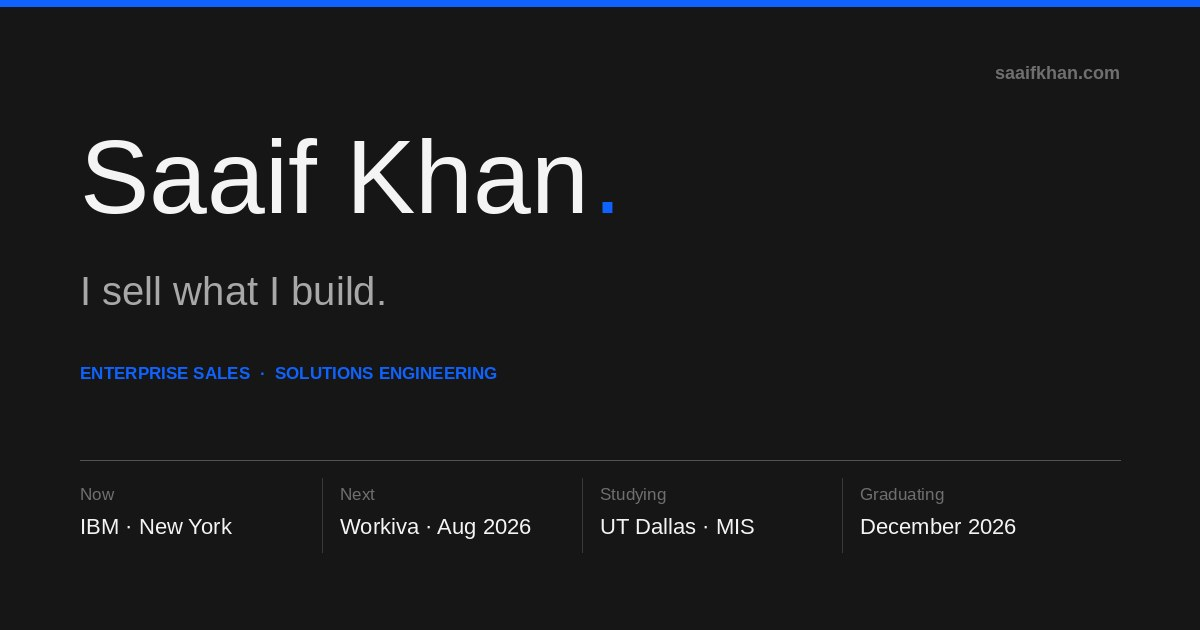
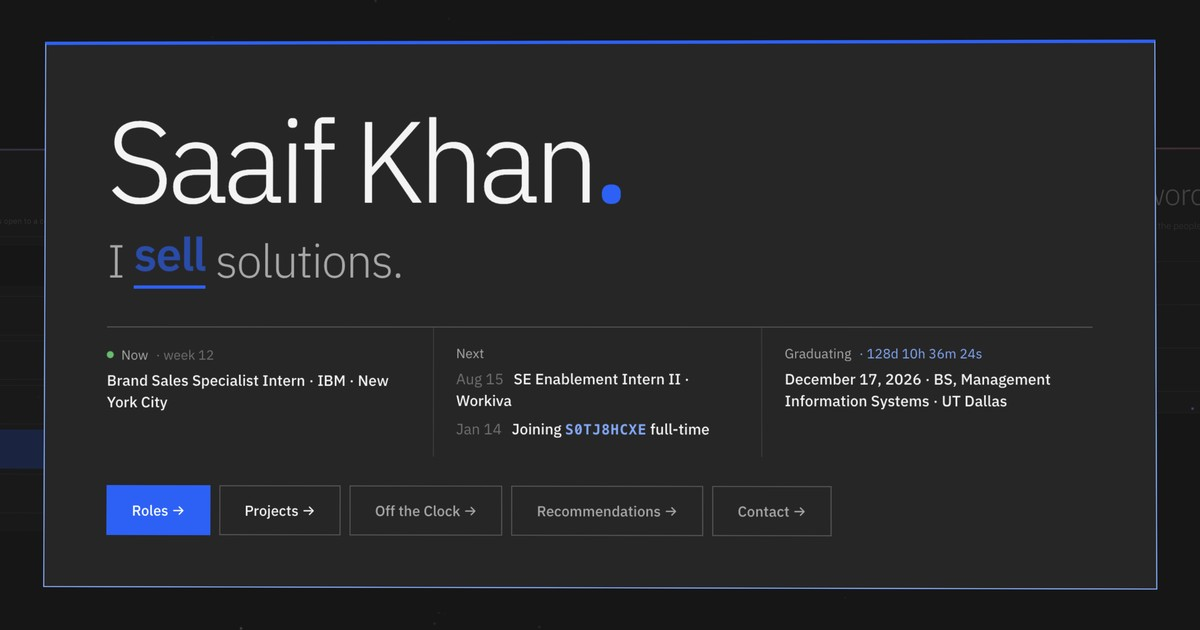
Update metadata: replace stale tagline and thumbnail with accurate, current content

diff --git a/index.html b/index.html
@@ -24,7 +24,7 @@
      chrome can clear the notch and the home indicator on iPhone -->
 <meta name="viewport" content="width=device-width, initial-scale=1.0, viewport-fit=cover">
 <title>saaif khan :p</title>
-<meta name="description" content="Saaif Khan — enterprise sales at IBM, solutions engineering at Splunk and Workiva. An interactive tour of the work.">
+<meta name="description" content="Saaif Khan — enterprise sales at IBM, solutions engineering at Splunk and Workiva. An interactive map of the work.">
 <link rel="canonical" href="https://saaifkhan.com/">
 <meta name="robots" content="index,follow">
 <meta name="author" content="Saaif Khan">
@@ -48,7 +48,7 @@
 <meta property="og:type" content="profile">
 <meta property="og:site_name" content="Saaif Khan">
 <meta property="og:url" content="https://saaifkhan.com/">
-<meta property="og:title" content="Saaif Khan — I sell what I build.">
+<meta property="og:title" content="Saaif Khan — Enterprise sales and solutions engineering.">
 <meta property="og:description" content="Enterprise sales at IBM, solutions engineering at Splunk and Workiva. An interactive map of the work — roles, projects, and the people who vouch for them.">
 <meta property="og:image" content="https://saaifkhan.com/assets/og-card.jpg">
 <meta property="og:image:width" content="1200">
@@ -57,7 +57,7 @@
 <meta property="profile:first_name" content="Saaif">
 <meta property="profile:last_name" content="Khan">
 <meta name="twitter:card" content="summary_large_image">
-<meta name="twitter:title" content="Saaif Khan — I sell what I build.">
+<meta name="twitter:title" content="Saaif Khan — Enterprise sales and solutions engineering.">
 <meta name="twitter:description" content="Enterprise sales at IBM, solutions engineering at Splunk and Workiva. An interactive map of the work.">
 <meta name="twitter:image" content="https://saaifkhan.com/assets/og-card.jpg">
 <link rel="icon" href="favicon.ico" sizes="32x32">
@@ -1142,7 +1142,7 @@ button.tbuilt:hover{border-color:var(--ax);color:var(--ink)}
      facts and point them at the resume, not reproduce the site. -->
 <div id="printcard">
   <h1>Saaif Khan<i>.</i></h1>
-  <div class="pc-sub">I sell what I build.</div>
+  <div class="pc-sub">Enterprise sales and solutions engineering.</div>
   <div class="pc-rule"></div>
   <h2>Contact</h2>
   <dl>
